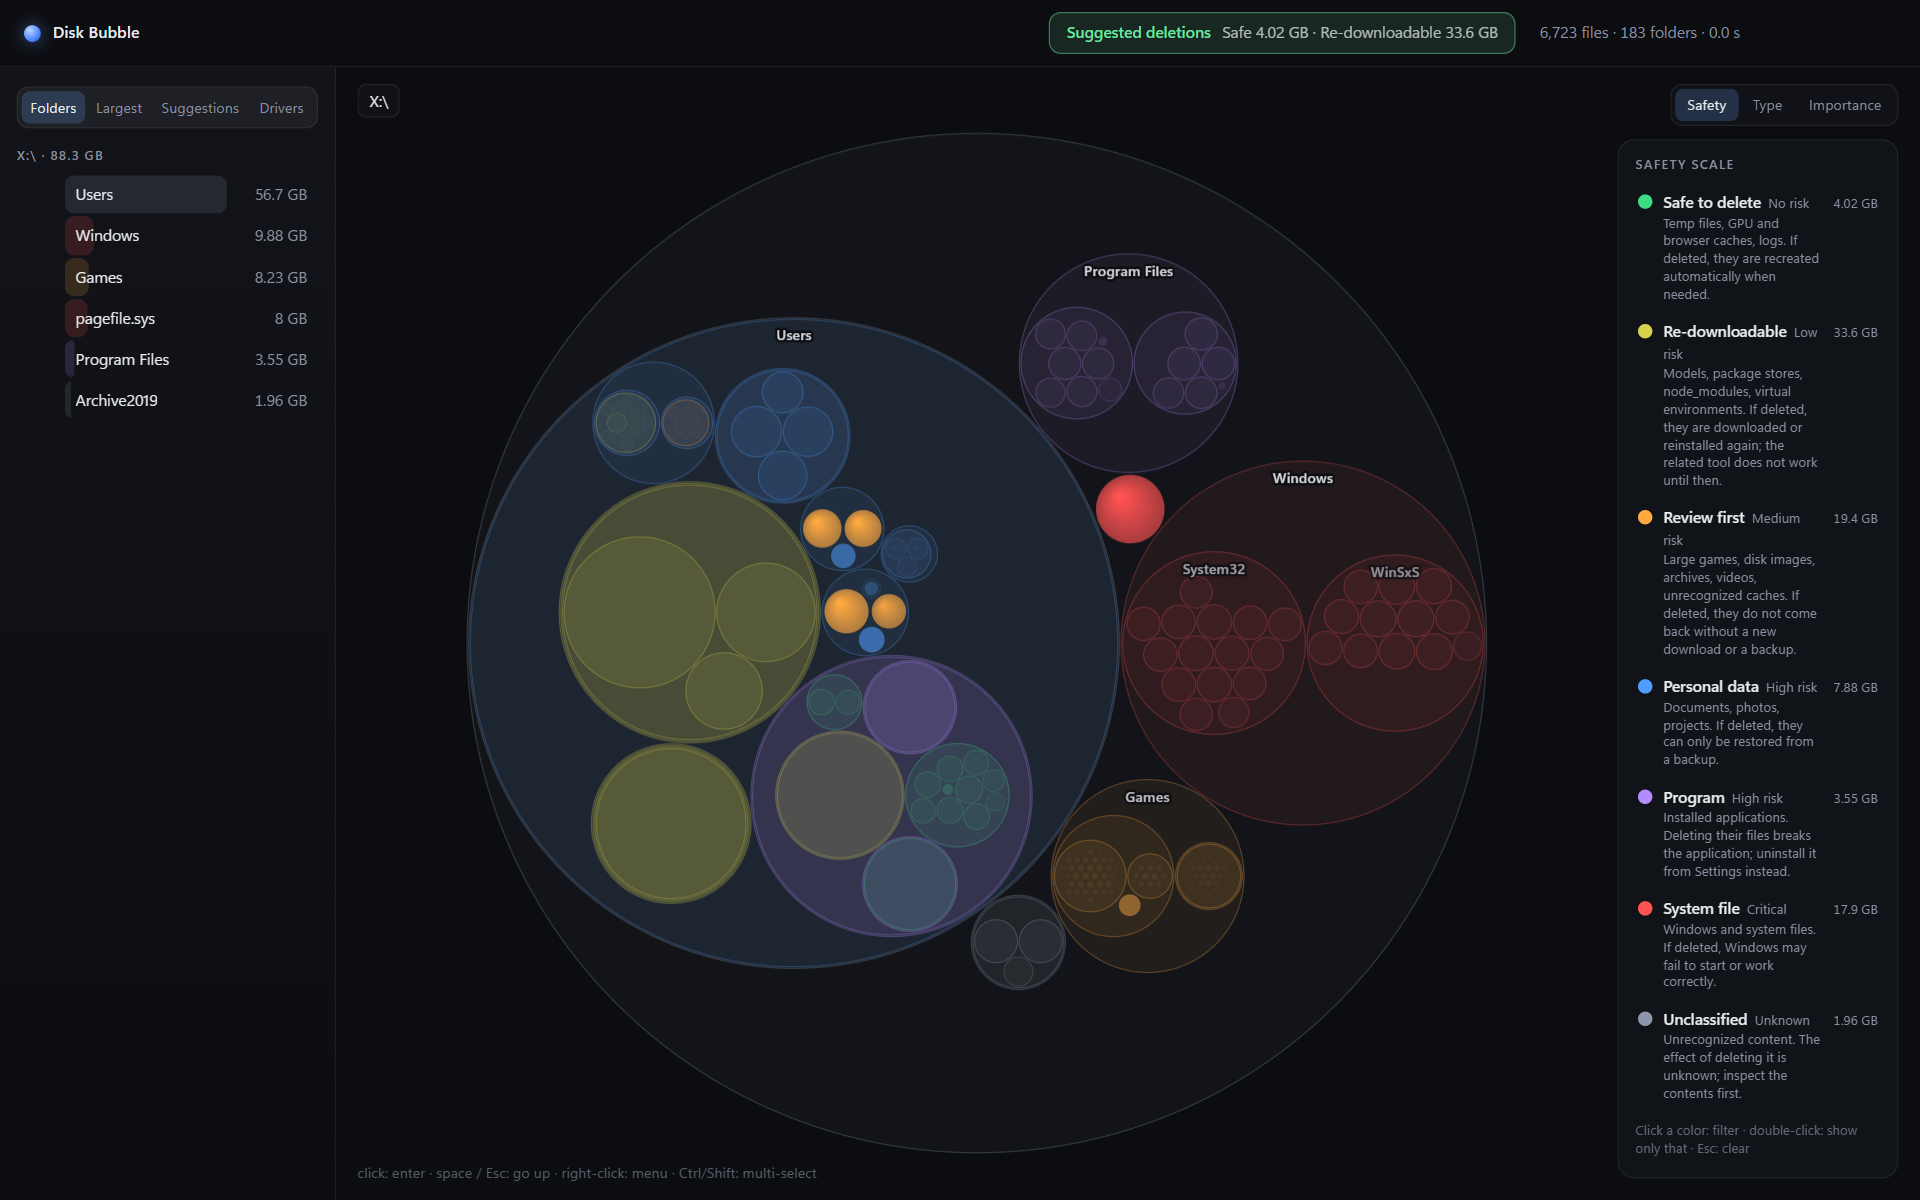
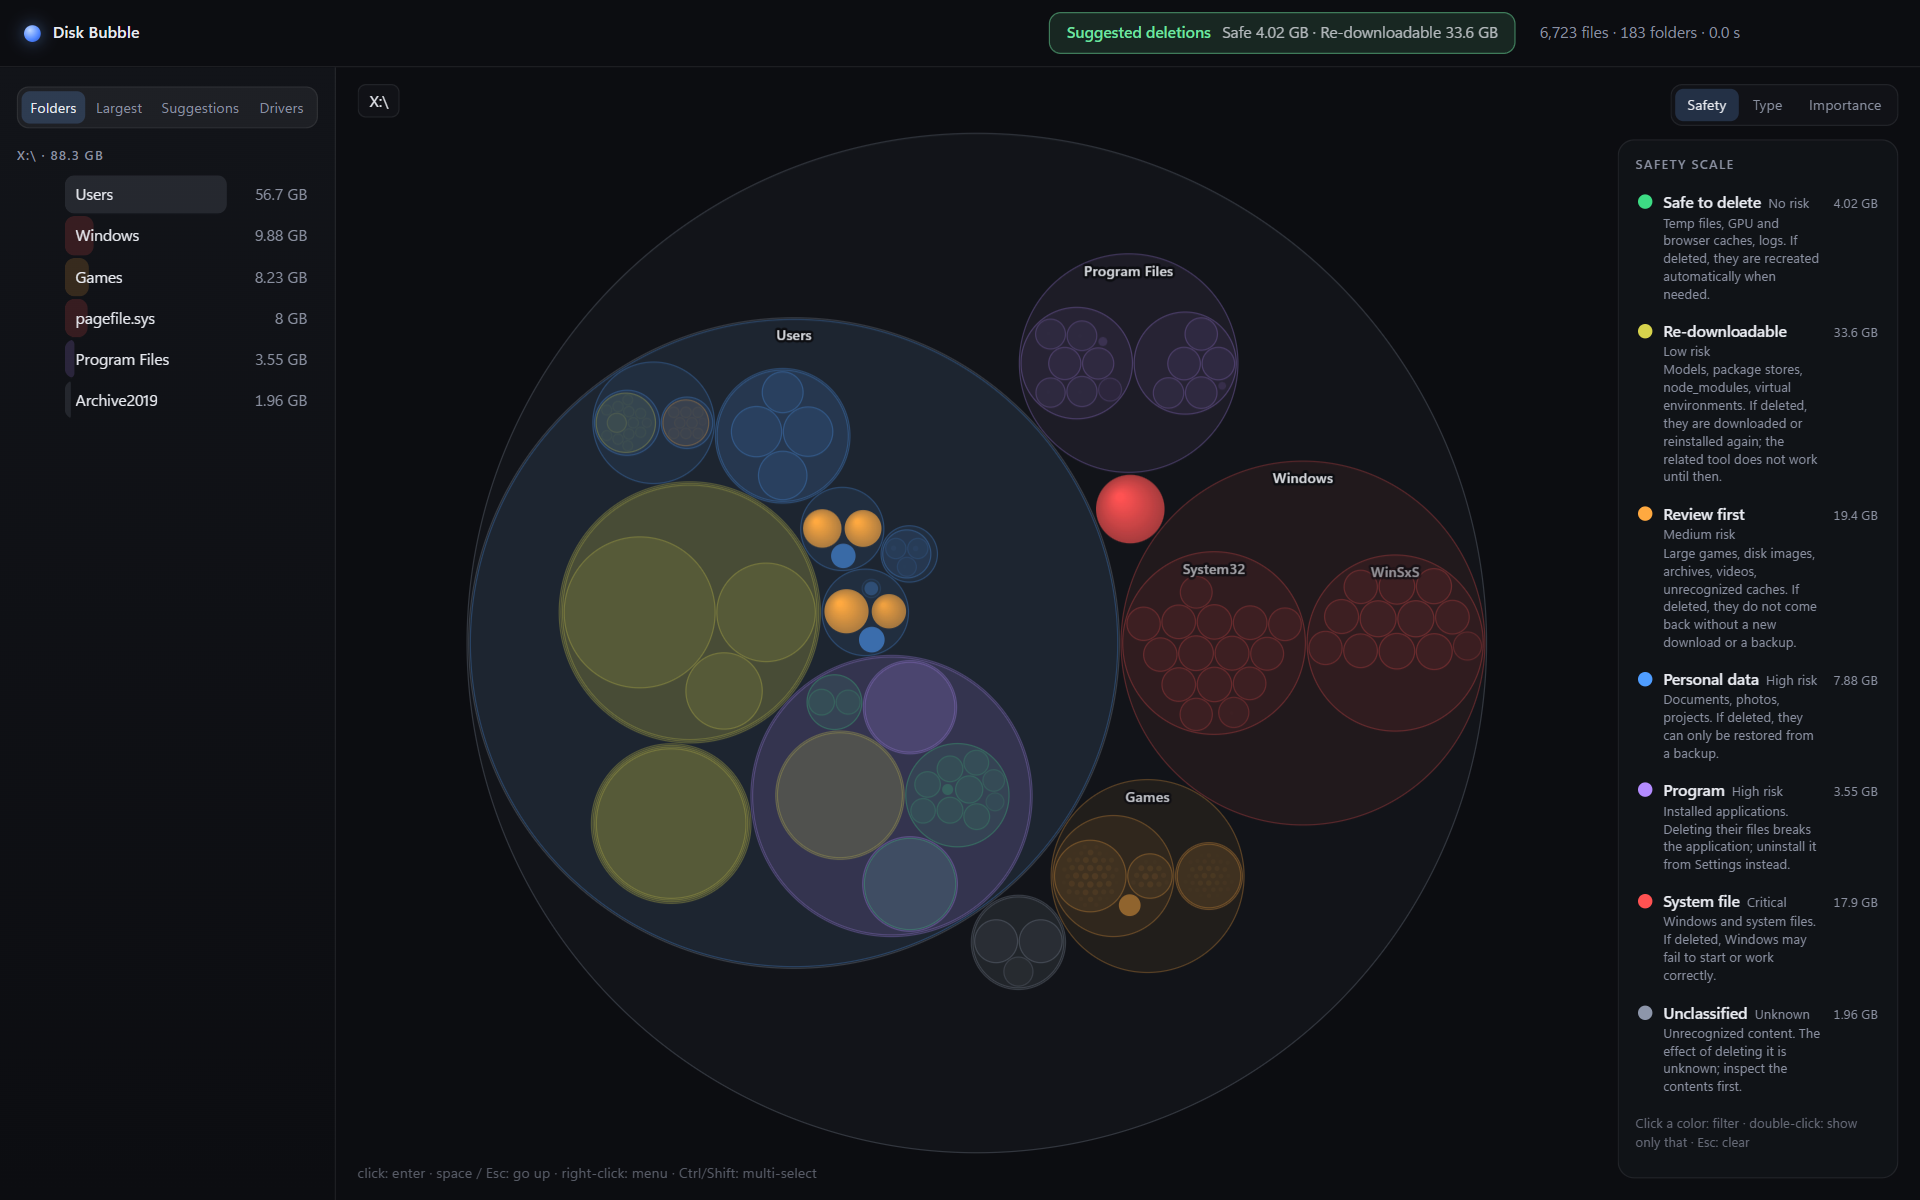
fix: word wrapping, suggestion rows and legend risk label; recapture media
- Confirm modal, toast and tooltip prose wrap at word boundaries
  (overflow-wrap:anywhere instead of word-break:break-all); paths still wrap.
- Suggestions dialog rows: one tier chip "<tier> · <risk>", the group/type
  chip and the age chip; the consequence sentence once; the second line
  only says how the item is removed.
- Safety legend: the risk label never splits and moves under the tier
  name when it does not fit next to it.
- Recaptured hero.gif, tiers.gif, recycle.gif, safety-scale.png,
  suggestions.png and confirm.png; manifest updated.

Changed region(s): [[0.8438, 0.2775, 0.9688, 0.9558]]

diff --git a/public/style.css b/public/style.css
@@ -45,7 +45,7 @@ aside h3{font-size:11px;letter-spacing:.9px;text-transform:uppercase;color:var(-
 #tip.on{opacity:1;transform:none}
 #tip b{display:block;font-weight:600;word-break:break-all}
 #tip em{font-style:normal;color:var(--accent);font-variant-numeric:tabular-nums}
-#tip small{display:block;color:var(--mute);margin-top:3px;word-break:break-all}
+#tip small{display:block;color:var(--mute);margin-top:3px;overflow-wrap:anywhere}
 #scan,#empty{position:absolute;inset:0;display:flex;flex-direction:column;align-items:center;justify-content:center;gap:4px;z-index:4;transition:opacity .4s var(--ease)}
 #scan{background:rgba(12,13,17,.82);backdrop-filter:blur(6px)}
 #empty{pointer-events:none;color:var(--mute);z-index:1}
@@ -91,7 +91,7 @@ aside h3{font-size:11px;letter-spacing:.9px;text-transform:uppercase;color:var(-
 #list li .sub i,#tip .grp i{display:inline-block;width:7px;height:7px;border-radius:50%;margin-right:6px}
 #tip .grp{color:var(--text)}
 #legend{flex-wrap:wrap;max-width:calc(100% - 36px)}
-#toast{position:fixed;left:50%;bottom:28px;z-index:9;transform:translate(-50%,12px);max-width:70%;padding:10px 16px;border-radius:12px;background:rgba(22,25,33,.97);border:1px solid rgba(110,168,255,.4);box-shadow:0 12px 36px rgba(0,0,0,.5);opacity:0;pointer-events:none;transition:opacity .2s,transform .25s var(--ease);word-break:break-all}
+#toast{position:fixed;left:50%;bottom:28px;z-index:9;transform:translate(-50%,12px);max-width:70%;padding:10px 16px;border-radius:12px;background:rgba(22,25,33,.97);border:1px solid rgba(110,168,255,.4);box-shadow:0 12px 36px rgba(0,0,0,.5);opacity:0;pointer-events:none;transition:opacity .2s,transform .25s var(--ease);overflow-wrap:anywhere}
 #toast.on{opacity:1;transform:translate(-50%,0)}#toast.bad{border-color:#ff6b6b;color:#ffb4b4}
 #modal{position:fixed;inset:0;z-index:20;display:flex;align-items:center;justify-content:center;background:rgba(6,7,10,.6);backdrop-filter:blur(6px);opacity:0;pointer-events:none;transition:opacity .18s}
 #modal.on{opacity:1;pointer-events:auto}
@@ -99,8 +99,8 @@ aside h3{font-size:11px;letter-spacing:.9px;text-transform:uppercase;color:var(-
 #modal.on .card{transform:none}
 #modal .mi{width:38px;height:38px;border-radius:50%;display:flex;align-items:center;justify-content:center;font-weight:700;font-size:20px;color:#ff8f8f;background:rgba(255,90,90,.14);margin-bottom:14px}
 #modal h4{font-size:17px;font-weight:600;margin-bottom:8px}
-#modal p{word-break:break-all}
-#modal small{display:block;color:var(--mute);margin-top:4px;word-break:break-all;max-height:3.2em;overflow:hidden}
+#modal p{overflow-wrap:anywhere}
+#modal small{display:block;color:var(--mute);margin-top:4px;overflow-wrap:anywhere;max-height:3.2em;overflow:hidden}
 #modal .mn{color:var(--mute);margin-top:12px}
 #modal .mb{display:flex;justify-content:flex-end;gap:10px;margin-top:20px}
 #modal button{padding:8px 16px;border-radius:9px;border:1px solid var(--line);background:rgba(255,255,255,.06);color:var(--text);font:inherit;cursor:pointer;transition:background .15s,transform .15s var(--ease)}
@@ -152,8 +152,8 @@ aside h3{font-size:11px;letter-spacing:.9px;text-transform:uppercase;color:var(-
 .kitem.zero{opacity:.45}
 .kitem i{flex:none;width:12px;height:12px;border-radius:50%;margin-top:3px}
 .kitem span{flex:1;min-width:0}
-.kitem b{display:block;font-weight:600}
-.kitem b .rk{font-weight:400;color:var(--mute);font-size:11px;margin-left:6px}
+.kitem b{display:flex;flex-wrap:wrap;align-items:baseline;column-gap:6px;font-weight:600}
+.kitem b .rk{flex:none;font-weight:400;color:var(--mute);font-size:11px;white-space:nowrap}
 .kitem small{display:block;color:var(--mute);font-size:11px;line-height:1.35;margin-top:1px}
 .kitem em{flex:none;font-style:normal;color:var(--mute);font-size:11px;font-variant-numeric:tabular-nums;margin-top:2px}
 

diff --git a/public/app.js b/public/app.js
@@ -308,10 +308,10 @@ async function drvRemove() {
 // ---- "Suggested deletions" dialog: detailed list, show in Explorer, bulk permanent delete ----
 let dlgSel = new Set();
 const dlgOpen = () => $('sugdlg').classList.contains('on');
-const EFFECT = {
-  safe: 'If deleted: nothing breaks. Apps recreate it when needed.',
-  cost: 'If deleted: it has to be downloaded or reinstalled again; the related tool does not work until then. Moved to the Recycle Bin.',
-  check: 'If deleted: it does not come back. If needed (game, image, video), it has to be downloaded again or restored from a backup.',
+// The row's muted second line only says how the item is removed; the consequence sentence appears once, in .sdwhy.
+const HOW = {
+  trash: 'Moved to the Recycle Bin; can be restored until the bin is emptied.',
+  remove: 'Deleted permanently; does not go to the Recycle Bin.',
 };
 // Badge: safe and re-downloadable are totalled separately; items to review appear only in the tooltip.
 function updateSugBtn() {
@@ -346,13 +346,11 @@ function renderSugDlg() {
     li.querySelector('b').textContent = n.data.n + (isDir(n) ? ' (folder)' : '');
     li.querySelector('.sdsz').textContent = fmt(n.value);
     li.querySelector('.sdpath').textContent = pathOf(n);
-    li.querySelector('.sdbadges').innerHTML = '<span class="cf cf-' + s.conf + '">' + CF[s.conf] + '</span>' +
-      '<span class="sdtag"><i style="background:' + SAFE[n.sf].col + '"></i>' + SAFE[n.sf].name + ' · ' + SAFE[n.sf].risk + '</span>' +
+    li.querySelector('.sdbadges').innerHTML = '<span class="cf cf-' + s.conf + '">' + SAFE[n.sf].name + ' · ' + SAFE[n.sf].risk + '</span>' +
       '<span class="sdtag"><i style="background:' + g.col + '"></i>' + g.name + (n.cat ? ' · ' + n.cat.name : '') + '</span>' +
-      '<span class="sdtag">Importance: ' + (s.conf === 'safe' ? 'low' : 'medium') + '</span>' +
       (n.data.m ? '<span class="sdtag">' + ageText(n.data.m, Date.now() / 1000) + '</span>' : '');
     li.querySelector('.sdwhy').textContent = s.why;
-    li.querySelector('.sdeff').textContent = EFFECT[s.conf];
+    li.querySelector('.sdeff').textContent = HOW[sugKind(n)];
     const cb = li.querySelector('input'); cb.checked = dlgSel.has(n);
     const flip = () => { dlgSel.has(n) ? dlgSel.delete(n) : dlgSel.add(n); cb.checked = dlgSel.has(n); li.classList.toggle('sel', dlgSel.has(n)); dlgFoot(); };
     li.onclick = e => { if (!e.target.closest('.sdrev') && e.target !== cb) flip(); };
